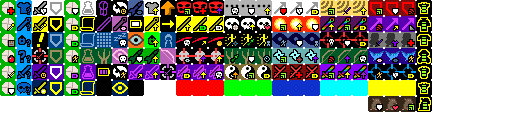
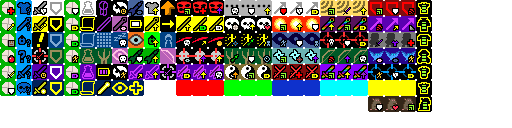
v3.0.0: implemented the Sunray spell/talent

Changed region(s): [[0.25, 0.625, 0.2812, 0.75], [0.1875, 0.625, 0.2188, 0.75]]

diff --git a/core/src/main/java/com/shatteredpixel/shatteredpixeldungeon/actors/hero/spells/Sunray.java b/core/src/main/java/com/shatteredpixel/shatteredpixeldungeon/actors/hero/spells/Sunray.java
@@ -1,0 +1,122 @@
+/*
+ * Pixel Dungeon
+ * Copyright (C) 2012-2015 Oleg Dolya
+ *
+ * Shattered Pixel Dungeon
+ * Copyright (C) 2014-2024 Evan Debenham
+ *
+ * This program is free software: you can redistribute it and/or modify
+ * it under the terms of the GNU General Public License as published by
+ * the Free Software Foundation, either version 3 of the License, or
+ * (at your option) any later version.
+ *
+ * This program is distributed in the hope that it will be useful,
+ * but WITHOUT ANY WARRANTY; without even the implied warranty of
+ * MERCHANTABILITY or FITNESS FOR A PARTICULAR PURPOSE.  See the
+ * GNU General Public License for more details.
+ *
+ * You should have received a copy of the GNU General Public License
+ * along with this program.  If not, see <http://www.gnu.org/licenses/>
+ */
+
+package com.shatteredpixel.shatteredpixeldungeon.actors.hero.spells;
+
+import com.shatteredpixel.shatteredpixeldungeon.Assets;
+import com.shatteredpixel.shatteredpixeldungeon.Dungeon;
+import com.shatteredpixel.shatteredpixeldungeon.actors.Actor;
+import com.shatteredpixel.shatteredpixeldungeon.actors.Char;
+import com.shatteredpixel.shatteredpixeldungeon.actors.buffs.Blindness;
+import com.shatteredpixel.shatteredpixeldungeon.actors.buffs.Buff;
+import com.shatteredpixel.shatteredpixeldungeon.actors.buffs.FlavourBuff;
+import com.shatteredpixel.shatteredpixeldungeon.actors.buffs.Paralysis;
+import com.shatteredpixel.shatteredpixeldungeon.actors.hero.Hero;
+import com.shatteredpixel.shatteredpixeldungeon.actors.hero.Talent;
+import com.shatteredpixel.shatteredpixeldungeon.effects.Beam;
+import com.shatteredpixel.shatteredpixeldungeon.items.artifacts.HolyTome;
+import com.shatteredpixel.shatteredpixeldungeon.items.wands.Wand;
+import com.shatteredpixel.shatteredpixeldungeon.mechanics.Ballistica;
+import com.shatteredpixel.shatteredpixeldungeon.messages.Messages;
+import com.shatteredpixel.shatteredpixeldungeon.tiles.DungeonTilemap;
+import com.shatteredpixel.shatteredpixeldungeon.ui.HeroIcon;
+import com.shatteredpixel.shatteredpixeldungeon.utils.GLog;
+import com.watabou.noosa.audio.Sample;
+import com.watabou.utils.Random;
+
+public class Sunray extends TargetedClericSpell {
+
+	public static final Sunray INSTANCE = new Sunray();
+
+	@Override
+	public int icon() {
+		return HeroIcon.SUNRAY;
+	}
+
+	@Override
+	public String desc() {
+		int min = Dungeon.hero.pointsInTalent(Talent.SUNRAY) == 2 ? 3 : 2;
+		int max = Dungeon.hero.pointsInTalent(Talent.SUNRAY) == 2 ? 12 : 8;
+		int dur = Dungeon.hero.pointsInTalent(Talent.SUNRAY) == 2 ? 6 : 4;
+		return Messages.get(this, "desc", min, max, dur) + "\n\n" + Messages.get(this, "charge_cost", (int)chargeUse(Dungeon.hero));
+	}
+
+	@Override
+	protected void onTargetSelected(HolyTome tome, Hero hero, Integer target) {
+		if (target == null){
+			return;
+		}
+
+		Ballistica aim = new Ballistica(hero.pos, target, Ballistica.MAGIC_BOLT);
+
+		if (Actor.findChar( aim.collisionPos ) == hero){
+			GLog.i( Messages.get(Wand.class, "self_target") );
+			return;
+		}
+
+		hero.busy();
+		Sample.INSTANCE.play( Assets.Sounds.RAY );
+		hero.sprite.zap(target);
+
+		hero.sprite.parent.add(
+				new Beam.SunRay(hero.sprite.center(), DungeonTilemap.raisedTileCenterToWorld(aim.collisionPos)));
+
+		Char ch = Actor.findChar( aim.collisionPos );
+		if (ch != null) {
+			ch.sprite.burst(0xFFFFFF44, 5);
+
+			if (Char.hasProp(ch, Char.Property.UNDEAD) || Char.hasProp(ch, Char.Property.DEMONIC)){
+				if (hero.pointsInTalent(Talent.SUNRAY) == 2) {
+					ch.damage(12, Sunray.this);
+				} else {
+					ch.damage(8, Sunray.this);
+				}
+			} else {
+				if (hero.pointsInTalent(Talent.SUNRAY) == 2) {
+					ch.damage(Random.NormalIntRange(3, 12), Sunray.this);
+				} else {
+					ch.damage(Random.NormalIntRange(2, 8), Sunray.this);
+				}
+			}
+
+			if (ch.isAlive()) {
+				if (ch.buff(Blindness.class) != null && ch.buff(SunRayRecentlyBlindedTracker.class) != null) {
+					Buff.prolong(ch, Paralysis.class, 2f + 2f*hero.pointsInTalent(Talent.SUNRAY));
+					ch.buff(SunRayRecentlyBlindedTracker.class).detach();
+				} else if (ch.buff(SunRayUsedTracker.class) == null) {
+					Buff.prolong(ch, Blindness.class, 2f + 2f*hero.pointsInTalent(Talent.SUNRAY));
+					Buff.prolong(ch, SunRayRecentlyBlindedTracker.class, 2f + 2f*hero.pointsInTalent(Talent.SUNRAY));
+					Buff.affect(ch, SunRayUsedTracker.class);
+				}
+			}
+		}
+
+		hero.spend( 1f );
+		hero.next();
+
+		onSpellCast(tome, hero);
+
+	}
+
+	public static class SunRayUsedTracker extends Buff {}
+	public static class SunRayRecentlyBlindedTracker extends FlavourBuff {}
+
+}

diff --git a/core/src/main/java/com/shatteredpixel/shatteredpixeldungeon/items/armor/glyphs/AntiMagic.java b/core/src/main/java/com/shatteredpixel/shatteredpixeldungeon/items/armor/glyphs/AntiMagic.java
@@ -33,6 +33,7 @@ import com.shatteredpixel.shatteredpixeldungeon.actors.hero.abilities.mage.Eleme
 import com.shatteredpixel.shatteredpixeldungeon.actors.hero.abilities.mage.WarpBeacon;
 import com.shatteredpixel.shatteredpixeldungeon.actors.hero.spells.GuidingLight;
 import com.shatteredpixel.shatteredpixeldungeon.actors.hero.spells.HolyWeapon;
+import com.shatteredpixel.shatteredpixeldungeon.actors.hero.spells.Sunray;
 import com.shatteredpixel.shatteredpixeldungeon.actors.mobs.CrystalWisp;
 import com.shatteredpixel.shatteredpixeldungeon.actors.mobs.DM100;
 import com.shatteredpixel.shatteredpixeldungeon.actors.mobs.Eye;
@@ -92,6 +93,7 @@ public class AntiMagic extends Armor.Glyph {
 
 		RESISTS.add( GuidingLight.class );
 		RESISTS.add( HolyWeapon.class );
+		RESISTS.add( Sunray.class );
 
 		RESISTS.add( ElementalBlast.class );
 		RESISTS.add( CursedWand.class );

diff --git a/core/src/main/java/com/shatteredpixel/shatteredpixeldungeon/actors/hero/Talent.java b/core/src/main/java/com/shatteredpixel/shatteredpixeldungeon/actors/hero/Talent.java
@@ -175,7 +175,7 @@ public enum Talent {
 	//Cleric T1
 	SATIATED_SPELLS(160), DETECT_CURSE(161), SEARING_LIGHT(162), SHIELD_OF_LIGHT(163),
 	//Cleric T2
-	ENLIGHTENING_MEAL(164), CLERICT2B(165), CLERICT2C(166), DIVINE_SENSE(167), CLERICT2E(168),
+	ENLIGHTENING_MEAL(164), CLERICT2B(165), SUNRAY(166), DIVINE_SENSE(167), CLERICT2E(168),
 	//Cleric T3
 	CLERICT3A(169, 3), CLERICT3B(170, 3),
 
@@ -915,7 +915,7 @@ public enum Talent {
 				Collections.addAll(tierTalents, FOCUSED_MEAL, LIQUID_AGILITY, WEAPON_RECHARGING, LETHAL_HASTE, SWIFT_EQUIP);
 				break;
 			case CLERIC:
-				Collections.addAll(tierTalents, ENLIGHTENING_MEAL, CLERICT2B, CLERICT2C, DIVINE_SENSE, CLERICT2E);
+				Collections.addAll(tierTalents, ENLIGHTENING_MEAL, CLERICT2B, SUNRAY, DIVINE_SENSE, CLERICT2E);
 				break;
 		}
 		for (Talent talent : tierTalents){

diff --git a/core/src/main/java/com/shatteredpixel/shatteredpixeldungeon/ui/HeroIcon.java b/core/src/main/java/com/shatteredpixel/shatteredpixeldungeon/ui/HeroIcon.java
@@ -73,7 +73,8 @@ public class HeroIcon extends Image {
 	public static final int HOLY_WARD       = 42;
 	public static final int SHIELD_OF_LIGHT = 43;
 	public static final int DETECT_CURSE    = 44;
-	public static final int DIVINE_SENSE     = 45;
+	public static final int SUNRAY          = 45;
+	public static final int DIVINE_SENSE    = 46;
 
 	//action indicator visuals
 	public static final int BERSERK         = 80;

diff --git a/core/src/main/java/com/shatteredpixel/shatteredpixeldungeon/effects/Beam.java b/core/src/main/java/com/shatteredpixel/shatteredpixeldungeon/effects/Beam.java
@@ -66,6 +66,13 @@ public class Beam extends Image {
 		}
 	}
 
+	public static class SunRay extends Beam{
+		public SunRay(PointF s, PointF e){
+			super(s, e, Effects.Type.LIGHT_RAY, 1f);
+			tint(1, 1, 0.25f, 1);
+		}
+	}
+
 	public static class HealthRay extends Beam{
 		public HealthRay(PointF s, PointF e){
 			super(s, e, Effects.Type.HEALTH_RAY, 0.75f);

diff --git a/core/src/main/java/com/shatteredpixel/shatteredpixeldungeon/actors/hero/spells/ClericSpell.java b/core/src/main/java/com/shatteredpixel/shatteredpixeldungeon/actors/hero/spells/ClericSpell.java
@@ -85,6 +85,10 @@ public abstract class ClericSpell {
 
 		} else if (tier == 2) {
 
+			if (cleric.hasTalent(Talent.SUNRAY)){
+				spells.add(Sunray.INSTANCE);
+			}
+
 			if (cleric.hasTalent(Talent.DIVINE_SENSE)) {
 				spells.add(DivineSense.INSTANCE);
 			}
